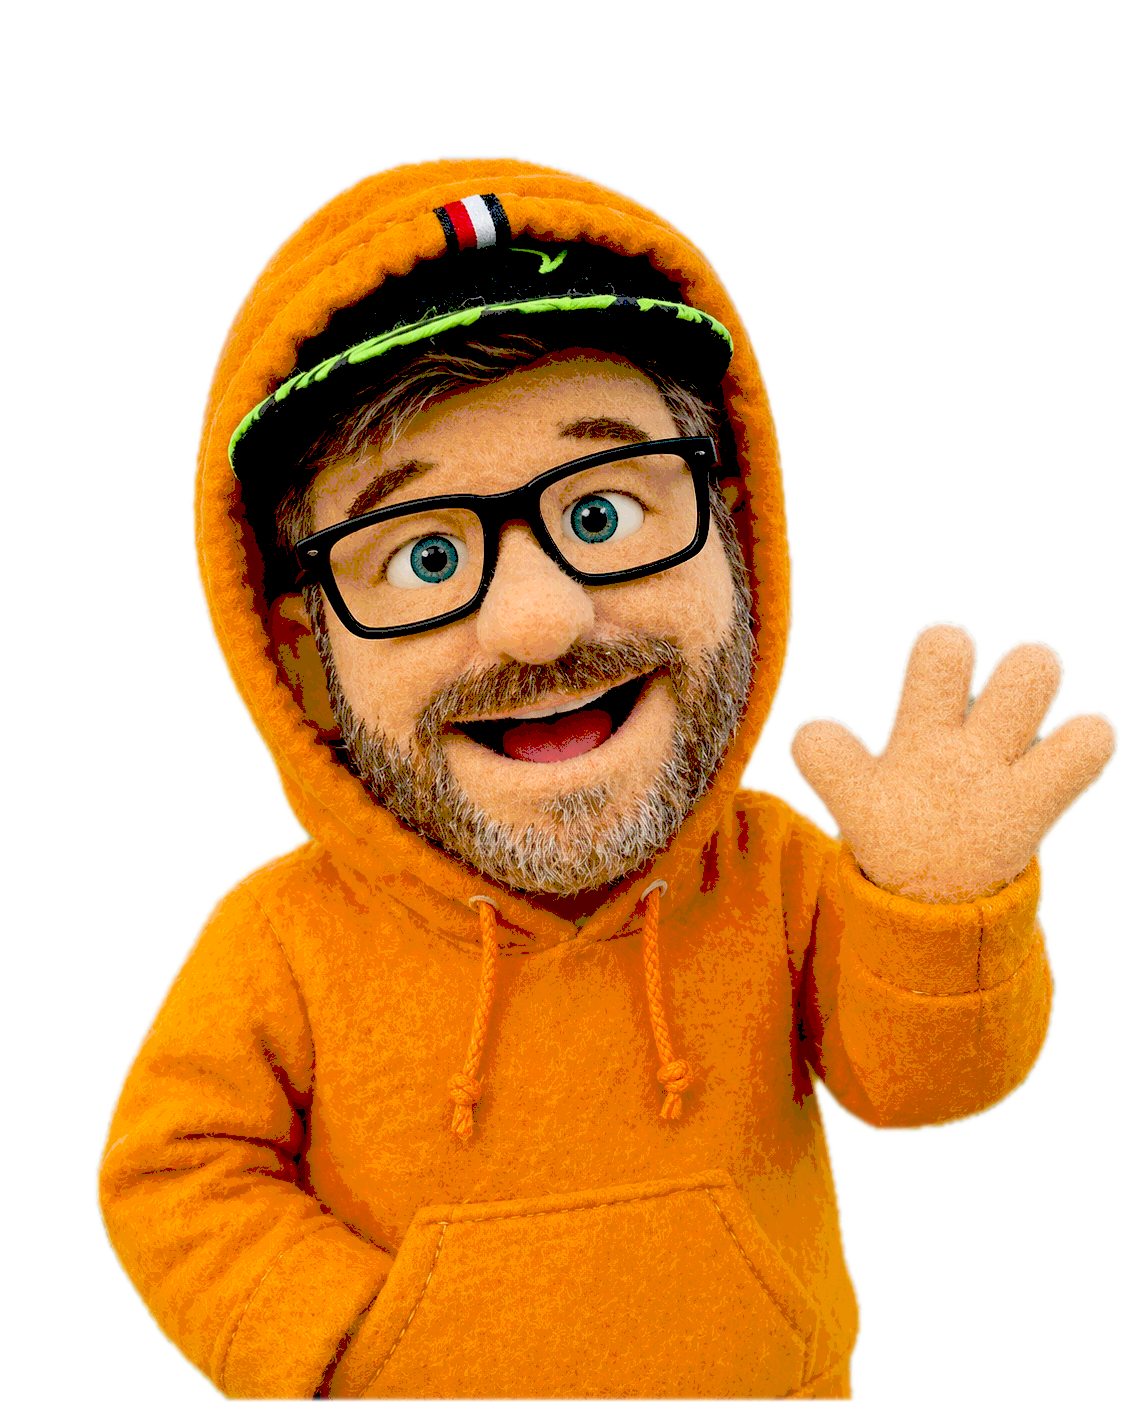
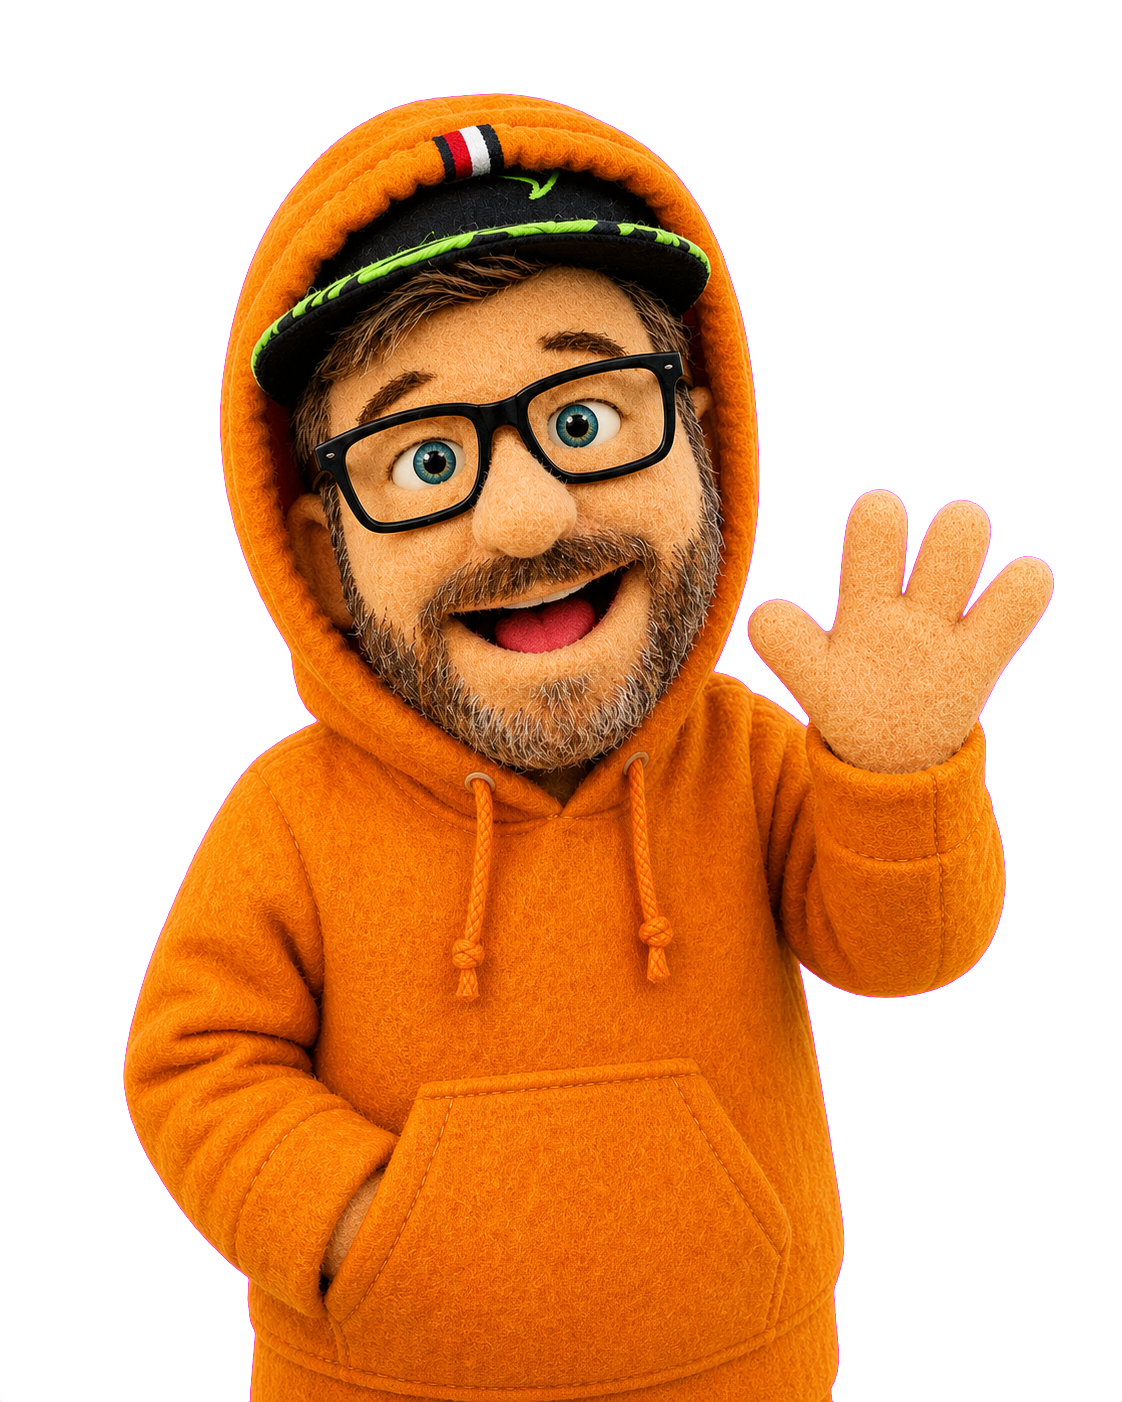
Refine profile preview copy and assets

diff --git a/docs/superpowers/plans/2026-06-14-warm-personal-profile-refresh.md b/docs/superpowers/plans/2026-06-14-warm-personal-profile-refresh.md
@@ -22,7 +22,7 @@
   - new README hero image
   - optimized static PNG
 
-- Create: `images/social-preview.png`
+- Create: `images/social-preview.jpg`
   - 1280x640 px GitHub Social Preview upload asset
   - under 1 MB
 
@@ -63,7 +63,7 @@ Expected: `pillow ok`. If Pillow is missing, use built-in macOS `sips` for inspe
 
 **Files:**
 - Modify: `images/banner.png`
-- Create: `images/social-preview.png`
+- Create: `images/social-preview.jpg`
 - Optional create: `images/andre-character.png`
 
 - [x] **Step 1: Generate or derive the character asset**
@@ -78,7 +78,7 @@ images/andre-character.png
 
 - [x] **Step 2: Compose `images/banner.png`**
 
-Create a 1280x640 PNG with:
+Create a 1280x640 JPG with:
 
 - warm personal color palette
 - character as the focal point
@@ -87,7 +87,7 @@ Create a 1280x640 PNG with:
 - no Databricks-led visual framing
 - no Aviation/Lakehouse dominance
 
-- [x] **Step 3: Compose `images/social-preview.png`**
+- [x] **Step 3: Compose `images/social-preview.jpg`**
 
 Create a 1280x640 PNG with:
 
@@ -102,11 +102,11 @@ Run:
 
 ```bash
 sips -g pixelWidth -g pixelHeight images/banner.png
-sips -g pixelWidth -g pixelHeight images/social-preview.png
-wc -c images/social-preview.png
+sips -g pixelWidth -g pixelHeight images/social-preview.jpg
+wc -c images/social-preview.jpg
 ```
 
-Expected: both images are 1280x640 px, `images/social-preview.png` is below 1,048,576 bytes.
+Expected: both images are 1280x640 px, `images/social-preview.jpg` is below 1,048,576 bytes.
 
 ## Task 3: Update README
 
@@ -129,27 +129,16 @@ Insert this sentence into the existing About text near the enterprise IT paragra
 I also bring deep database experience from transactional systems through analytical platforms, which helps me connect operational data realities with modern Data and AI foundations, including emerging patterns around Lakebase.
 ```
 
-- [x] **Step 3: Add compact highlights after the About text**
+- [x] **Step 3: Keep the About text concise**
 
-Add this section before `## :compass: Find me on the web`:
-
-```markdown
-## :sparkles: A few things I bring
-
-| Area | What I enjoy working on |
-| --- | --- |
-| Data + AI | Turning data ideas into useful, measurable outcomes |
-| Cloud-native architecture | Designing pragmatic platforms that teams can actually run |
-| Database systems | Connecting transactional systems, analytical platforms, and modern data foundations |
-| Community | Sharing practical experience and helping data communities grow |
-```
+Do not add a separate highlights block. The existing text should carry the story without repeating the same points in a table.
 
 ## Task 4: Verify And Commit
 
 **Files:**
 - Verify: `README.md`
 - Verify: `images/banner.png`
-- Verify: `images/social-preview.png`
+- Verify: `images/social-preview.jpg`
 
 - [x] **Step 1: Inspect rendered Markdown structure**
 
@@ -166,7 +155,7 @@ Expected: README keeps the existing text mostly intact, contains the new sentenc
 Run:
 
 ```bash
-git diff -- README.md images/banner.png images/social-preview.png docs/superpowers/plans/2026-06-14-warm-personal-profile-refresh.md
+git diff -- README.md images/banner.png images/social-preview.jpg docs/superpowers/plans/2026-06-14-warm-personal-profile-refresh.md
 git status --short
 ```
 
@@ -177,7 +166,7 @@ Expected: product diff includes README, image assets, and this plan. `.superpowe
 Run:
 
 ```bash
-git add README.md images/banner.png images/social-preview.png docs/superpowers/plans/2026-06-14-warm-personal-profile-refresh.md
+git add README.md images/banner.png images/social-preview.jpg docs/superpowers/plans/2026-06-14-warm-personal-profile-refresh.md
 git add images/andre-character.png
 git commit -m "Refresh profile with warm personal visuals"
 ```

diff --git a/docs/superpowers/specs/2026-06-14-github-profile-warm-personal-design.md b/docs/superpowers/specs/2026-06-14-github-profile-warm-personal-design.md
@@ -54,9 +54,9 @@ Create or update these assets:
   - includes Andre's name, a compact personal tagline, and the Muppet-like character
   - should replace the existing first image
 
-- `images/social-preview.png`
+- `images/social-preview.jpg`
   - repository Social Preview image for manual upload in GitHub repository settings
-  - PNG preferred
+  - JPG, chosen to keep the higher-quality character art under GitHub's file-size limit
   - 1280x640 px target size
   - under 1 MB
   - solid background preferred for cross-platform reliability, even though GitHub supports transparent PNGs
@@ -98,18 +98,7 @@ Add one concise sentence to the existing About section, near the paragraph that 
 
 > I also bring deep database experience from transactional systems through analytical platforms, which helps me connect operational data realities with modern Data + AI foundations, including emerging patterns around Lakebase.
 
-Add a compact highlights block after the About section:
-
-```markdown
-## :sparkles: A few things I bring
-
-| Area | What I enjoy working on |
-| --- | --- |
-| Data + AI | Turning data ideas into useful, measurable outcomes |
-| Cloud-native architecture | Designing pragmatic platforms that teams can actually run |
-| Database systems | Connecting transactional systems, analytical platforms, and modern data foundations |
-| Community | Sharing practical experience and helping data communities grow |
-```
+Do not add a separate highlights block. The existing text should carry the story without repeating the same points in a table.
 
 The exact wording can be tuned during implementation, but the meaning should stay close to this.
 
@@ -128,6 +117,6 @@ Before calling implementation complete:
 
 - verify Markdown renders structurally with the intended image paths
 - verify `images/banner.png` exists and has plausible dimensions
-- verify `images/social-preview.png` exists, is 1280x640 px, and is under 1 MB
+- verify `images/social-preview.jpg` exists, is 1280x640 px, and is under 1 MB
 - verify README keeps the existing text mostly intact
 - verify `git diff` does not include companion files from `.superpowers/`
